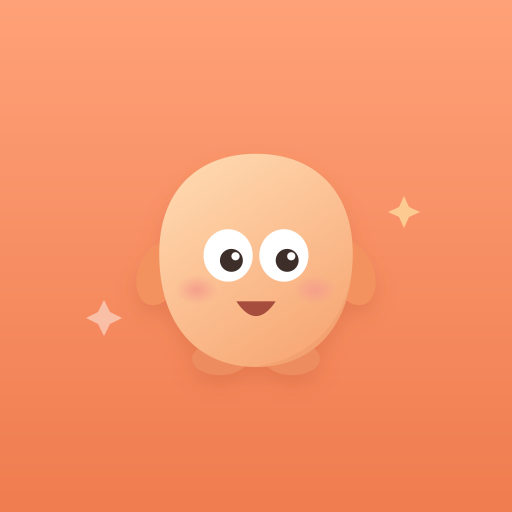
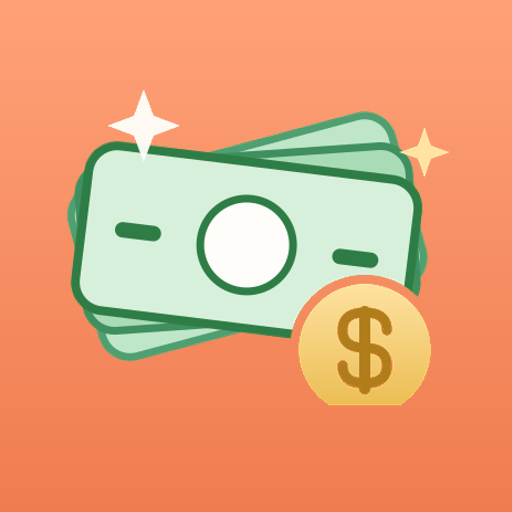
Revertir splash/icono Chubi y agrandar los billetes para el splash de Android
- Vuelven los iconos de billetes (no Chubi), ahora más grandes dentro del
  cuadro: ocupan ~88% (any) y ~78% (maskable). Así Chrome los muestra más
  grandes en el splash nativo al abrir la PWA en Android.
- Se elimina la SplashScreen JS (se mostraba en cada recarga) y los scripts
  del icono Chubi. layout.jsx y legacy.css quedan como estaban.

diff --git a/app/legacy.css b/app/legacy.css
@@ -808,51 +808,3 @@ table.tbl { width:100%; border-collapse:collapse; min-width:640px; }
 .cierre-foot { font-family:var(--font-d); font-size:12px; color:var(--ink-soft); margin:12px 0 8px; }
 .cierre-btn { width:100%; }
 .cierre-form { margin-top:4px; }
-
-/* =========================================================
-   SPLASH PWA (pantalla de bienvenida animada al abrir la app)
-   Solo se monta cuando corre como PWA instalada (ver SplashScreen.jsx).
-   Reusa la mascota Chubi (.chubi) que ya flota con su animación propia.
-   ========================================================= */
-.splash {
-  position:fixed; inset:0; z-index:9999;
-  display:flex; flex-direction:column; align-items:center; justify-content:center; gap:18px;
-  /* Mismo coral del theme/manifest para continuidad con el splash nativo */
-  background:linear-gradient(165deg,#ffa178,#ef7c4f);
-  /* Aparece de una; al terminar la carga se desvanece con la clase .splash-out */
-  animation:splashIn .35s ease both;
-  /* Por encima de notch en móviles */
-  padding:env(safe-area-inset-top) 0 env(safe-area-inset-bottom);
-}
-.splash-out { animation:splashOut .45s ease forwards; pointer-events:none; }
-
-/* Chubi entra con un pop suave; su flotar (chubiBob) sigue corriendo por debajo */
-.splash .chubi { animation:splashPop .55s cubic-bezier(.34,1.56,.64,1) both; }
-
-.splash-title {
-  font-family:var(--font-d); font-weight:700; font-size:30px; letter-spacing:.3px;
-  color:#fff; text-shadow:0 3px 10px rgba(160,60,30,.28);
-  opacity:0; animation:splashTitle .5s ease .25s both;
-}
-.splash-sub {
-  font-family:var(--font-n); font-weight:600; font-size:14px;
-  color:rgba(255,255,255,.92); margin-top:-8px;
-  opacity:0; animation:splashTitle .5s ease .4s both;
-}
-
-@keyframes splashIn  { from { opacity:0; } to { opacity:1; } }
-@keyframes splashOut { to { opacity:0; transform:scale(1.04); } }
-@keyframes splashPop {
-  0%   { transform:scale(.55) translateY(14px); opacity:0; }
-  60%  { transform:scale(1.06) translateY(0);   opacity:1; }
-  100% { transform:scale(1) translateY(0);      opacity:1; }
-}
-@keyframes splashTitle {
-  from { opacity:0; transform:translateY(10px); }
-  to   { opacity:1; transform:translateY(0); }
-}
-
-/* Si el usuario pidió menos movimiento, mantenemos la pantalla pero sin saltos */
-@media (prefers-reduced-motion: reduce) {
-  .splash, .splash .chubi, .splash-title, .splash-sub { animation-duration:.01ms !important; }
-}

diff --git a/app/layout.jsx b/app/layout.jsx
@@ -3,7 +3,6 @@
 import './legacy.css'
 import Providers from './providers.jsx'
 import RegisterSW from '../components/RegisterSW.jsx'
-import SplashScreen from '../components/SplashScreen.jsx'
 
 // Metadata global (Next la inyecta en el <head>). `manifest` habilita la PWA.
 export const metadata = {
@@ -38,7 +37,6 @@ export default function RootLayout({ children }) {
       <body>
         <Providers>{children}</Providers>
         <RegisterSW />
-        <SplashScreen />
       </body>
     </html>
   )
